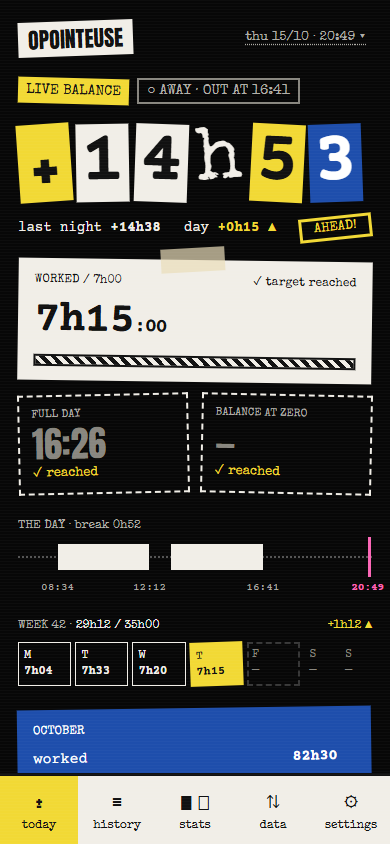
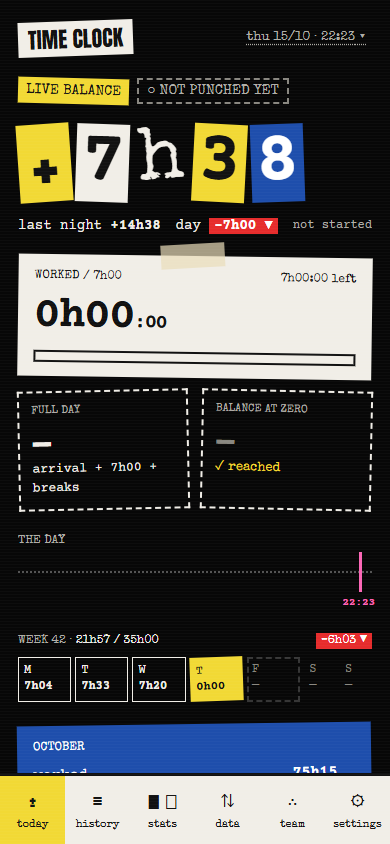
[T27] Display name Pointeuse / Time clock, repository links, new screenshots
UI brand, tab title, manifest, export names per language; <owner> links point to doooools/Time-clock-Pointeuse; 6 screenshots redone.

diff --git a/src/pages/DataPage.tsx b/src/pages/DataPage.tsx
@@ -96,14 +96,14 @@ function ExportSection() {
             <button
               className="btn-primary flex-1 p-3 text-[17px]"
               disabled={!selection.days.length}
-              onClick={() => exportXlsx(selection.days, t("data.workbook_title", { title: selection.title }), `opointeuse-${selection.slug}.xlsx`, locale, settings.timezone)}
+              onClick={() => exportXlsx(selection.days, t("data.workbook_title", { title: selection.title }), `${t("data.file_prefix")}-${selection.slug}.xlsx`, locale, settings.timezone)}
             >
               {t("data.download_xlsx")}
             </button>
             <button
               className="btn-secondary flex-1 p-2.5 text-[17px]"
               disabled={!selection.days.length}
-              onClick={() => exportCsv(selection.days, `opointeuse-${selection.slug}.csv`, locale, settings.timezone)}
+              onClick={() => exportCsv(selection.days, `${t("data.file_prefix")}-${selection.slug}.csv`, locale, settings.timezone)}
             >
               {t("data.download_csv")}
             </button>

diff --git a/src/components/IntegrationsGuide.tsx b/src/components/IntegrationsGuide.tsx
@@ -320,7 +320,7 @@ function HttpTab() {
   const url = `${origin}/api/webhook/punch`;
   const curl = `curl -fsS -X POST -H "X-Webhook-Token: YOUR_TOKEN" ${url}`;
   const powershell = `$headers = @{ "X-Webhook-Token" = "YOUR_TOKEN" }\nInvoke-RestMethod -Method Post -Uri "${url}" -Headers $headers`;
-  const homeAssistant = `# secrets.yaml\nopointeuse_token: YOUR_TOKEN\n\n# configuration.yaml\nrest_command:\n  opointeuse_punch:\n    url: "${url}"\n    method: post\n    headers:\n      X-Webhook-Token: !secret opointeuse_token`;
+  const homeAssistant = `# secrets.yaml\npointeuse_token: YOUR_TOKEN\n\n# configuration.yaml\nrest_command:\n  pointeuse_punch:\n    url: "${url}"\n    method: post\n    headers:\n      X-Webhook-Token: !secret pointeuse_token`;
   const sample = `{ "ok": true, "action": "in", "time": "08:12", "worked_today": "0h00",\n  "remaining_today": "7h00", "departure": "15:12", "balance": "+1h03",\n  "message": "..." }`;
   return (
     <>

diff --git a/index.html b/index.html
@@ -9,7 +9,7 @@
     <link href="https://fonts.googleapis.com/css2?family=Anton&family=Special+Elite&family=Courier+Prime:wght@400;700&display=swap" rel="stylesheet" />
     <link rel="icon" type="image/svg+xml" href="/icon.svg" />
     <link rel="manifest" href="/manifest.webmanifest" />
-    <title>Opointeuse</title>
+    <title>Pointeuse</title>
   </head>
   <body>
     <div id="root"></div>

diff --git a/src/i18n/locales/en/data.ts b/src/i18n/locales/en/data.ts
@@ -11,7 +11,8 @@ export const data: Record<keyof typeof fr, string> = {
   year_aria: "Year",
   title_year: "Year {year}",
   title_all: "Full history",
-  workbook_title: "Opointeuse — {title}",
+  file_prefix: "time-clock",
+  workbook_title: "Time clock — {title}",
   preview: "PREVIEW · {title}",
   stat_days: "days",
   stat_hours: "hours worked",

diff --git a/src/i18n/locales/fr/data.ts b/src/i18n/locales/fr/data.ts
@@ -9,7 +9,8 @@ export const data = {
   year_aria: "Année",
   title_year: "Année {year}",
   title_all: "Historique complet",
-  workbook_title: "Opointeuse — {title}",
+  file_prefix: "pointeuse",
+  workbook_title: "Pointeuse — {title}",
   preview: "APERÇU · {title}",
   stat_days: "jours",
   stat_hours: "heures travaillées",

diff --git a/src/i18n/index.tsx b/src/i18n/index.tsx
@@ -91,6 +91,7 @@ export function I18nProvider({ locale: controlled, children }: { locale?: Locale
 
   useEffect(() => {
     document.documentElement.lang = locale;
+    document.title = translate(locale, "common.app_title");
   }, [locale]);
 
   const setLocale = useCallback<SetLocale>((l, opts) => {

diff --git a/src/i18n/locales/fr/common.ts b/src/i18n/locales/fr/common.ts
@@ -1,6 +1,7 @@
 // Shared strings: navigation, widgets, toasts, language switch (French is the reference dictionary).
 export const common = {
-  brand: "OPOINTEUSE",
+  brand: "POINTEUSE",
+  app_title: "Pointeuse",
 
   // Empty states (new account)
   emptyTitle: "RIEN À POINTER POUR L'INSTANT",

diff --git a/src/i18n/locales/en/common.ts b/src/i18n/locales/en/common.ts
@@ -2,7 +2,8 @@
 import type { common as fr } from "../fr/common";
 
 export const common: Record<keyof typeof fr, string> = {
-  brand: "OPOINTEUSE",
+  brand: "TIME CLOCK",
+  app_title: "Time clock",
 
   // Empty states (new account)
   emptyTitle: "NOTHING TO PUNCH YET",

diff --git a/README.md b/README.md
@@ -1,6 +1,6 @@
 # Opointeuse
 
-[![CI](https://github.com/<owner>/opointeuse/actions/workflows/ci.yml/badge.svg)](https://github.com/<owner>/opointeuse/actions/workflows/ci.yml)
+[![CI](https://github.com/doooools/Time-clock-Pointeuse/actions/workflows/ci.yml/badge.svg)](https://github.com/doooools/Time-clock-Pointeuse/actions/workflows/ci.yml)
 [![License: Apache-2.0](https://img.shields.io/badge/license-Apache--2.0-blue.svg)](LICENSE)
 
 *Lire en français : [README.fr.md](README.fr.md)*
@@ -55,7 +55,7 @@ Generate a secret first: `openssl rand -hex 32` (any random string of 32+ charac
 Requires Node ≥ 22.13.
 
 ```bash
-git clone https://github.com/<owner>/opointeuse.git && cd opointeuse
+git clone https://github.com/doooools/Time-clock-Pointeuse.git && cd Time-clock-Pointeuse
 npm ci
 npm run build:node
 cp .env.example .env            # then set SESSION_SECRET in .env
@@ -68,7 +68,7 @@ More: [docs/deploy-node.md](docs/deploy-node.md) (systemd, Caddy / nginx, backup
 ### Docker
 
 ```bash
-git clone https://github.com/<owner>/opointeuse.git && cd opointeuse
+git clone https://github.com/doooools/Time-clock-Pointeuse.git && cd Time-clock-Pointeuse
 echo "SESSION_SECRET=$(openssl rand -hex 32)" > .env
 docker compose up -d --build    # http://localhost:3000
 docker compose exec opointeuse node dist/server/cli.mjs add alice --generate-password
@@ -79,7 +79,7 @@ More: [docs/deploy-docker.md](docs/deploy-docker.md).
 ### Cloudflare Workers + D1
 
 ```bash
-git clone https://github.com/<owner>/opointeuse.git && cd opointeuse
+git clone https://github.com/doooools/Time-clock-Pointeuse.git && cd Time-clock-Pointeuse
 npm ci
 npx wrangler login
 npx wrangler d1 create opointeuse        # paste the database_id into wrangler.jsonc
@@ -132,7 +132,7 @@ read by other agents through `AGENTS.md`) and a guided set-up skill (`.claude/sk
 "set up Opointeuse" and it asks the few questions that matter (target, team, time zone, holidays, hours), then runs
 the steps, asking before anything irreversible. Examples:
 
-- "Here is the repo: `https://github.com/<owner>/opointeuse`. Deploy it on my Cloudflare account, create the
+- "Here is the repo: `https://github.com/doooools/Time-clock-Pointeuse`. Deploy it on my Cloudflare account, create the
   first account for me, time zone Europe/Brussels, Belgian holidays."
 - "Install it with Docker on my home server behind Caddy, for a team of 6 people, French interface."
 - "Add a holiday region for the canton of Geneva."

diff --git a/README.fr.md b/README.fr.md
@@ -1,6 +1,6 @@
 # Opointeuse
 
-[![CI](https://github.com/<owner>/opointeuse/actions/workflows/ci.yml/badge.svg)](https://github.com/<owner>/opointeuse/actions/workflows/ci.yml)
+[![CI](https://github.com/doooools/Time-clock-Pointeuse/actions/workflows/ci.yml/badge.svg)](https://github.com/doooools/Time-clock-Pointeuse/actions/workflows/ci.yml)
 [![Licence : Apache-2.0](https://img.shields.io/badge/licence-Apache--2.0-blue.svg)](LICENSE)
 
 *Read in English: [README.md](README.md)*
@@ -58,7 +58,7 @@ ou plus convient).
 Nécessite Node ≥ 22.13.
 
 ```bash
-git clone https://github.com/<owner>/opointeuse.git && cd opointeuse
+git clone https://github.com/doooools/Time-clock-Pointeuse.git && cd Time-clock-Pointeuse
 npm ci
 npm run build:node
 cp .env.example .env            # puis renseignez SESSION_SECRET dans .env
@@ -71,7 +71,7 @@ Suite : [docs/deploy-node.md](docs/deploy-node.md) (systemd, Caddy / nginx, sauv
 ### Docker
 
 ```bash
-git clone https://github.com/<owner>/opointeuse.git && cd opointeuse
+git clone https://github.com/doooools/Time-clock-Pointeuse.git && cd Time-clock-Pointeuse
 echo "SESSION_SECRET=$(openssl rand -hex 32)" > .env
 docker compose up -d --build    # http://localhost:3000
 docker compose exec opointeuse node dist/server/cli.mjs add alice --generate-password
@@ -82,7 +82,7 @@ Suite : [docs/deploy-docker.md](docs/deploy-docker.md).
 ### Cloudflare Workers + D1
 
 ```bash
-git clone https://github.com/<owner>/opointeuse.git && cd opointeuse
+git clone https://github.com/doooools/Time-clock-Pointeuse.git && cd Time-clock-Pointeuse
 npm ci
 npx wrangler login
 npx wrangler d1 create opointeuse        # collez le database_id dans wrangler.jsonc
@@ -139,7 +139,7 @@ les autres agents via `AGENTS.md`) et un skill de mise en place guidée (`.claud
 Code d'« installer Opointeuse », il pose les quelques questions utiles (cible, équipe, fuseau, fériés, horaires),
 puis exécute les étapes en demandant confirmation avant toute action irréversible. Exemples de demandes :
 
-- « Voici le dépôt : `https://github.com/<owner>/opointeuse`. Déploie-le sur mon compte Cloudflare, crée-moi le
+- « Voici le dépôt : `https://github.com/doooools/Time-clock-Pointeuse`. Déploie-le sur mon compte Cloudflare, crée-moi le
   premier compte, fuseau Europe/Paris, jours fériés français. »
 - « Installe-le avec Docker sur mon serveur maison derrière Caddy, pour une équipe de 6 personnes, interface en
   français. »

diff --git a/docs/integrations/http.md b/docs/integrations/http.md
@@ -61,18 +61,18 @@ Keep the script readable only by you (`chmod 600`): it contains the token.
 Store the token in `secrets.yaml`:
 
 ```yaml
-opointeuse_token: YOUR_TOKEN
+pointeuse_token: YOUR_TOKEN
 ```
 
 `configuration.yaml`:
 
 ```yaml
 rest_command:
-  opointeuse_punch:
+  pointeuse_punch:
     url: "https://pointeuse.example.com/api/webhook/punch"
     method: post
     headers:
-      X-Webhook-Token: !secret opointeuse_token
+      X-Webhook-Token: !secret pointeuse_token
     timeout: 15
 ```
 
@@ -82,7 +82,7 @@ Call it from an automation, a script or a dashboard button, and read the reply w
 script:
   punch:
     sequence:
-      - action: rest_command.opointeuse_punch
+      - action: rest_command.pointeuse_punch
         response_variable: punch
       - action: notify.notify
         data:

diff --git a/CODE_OF_CONDUCT.md b/CODE_OF_CONDUCT.md
@@ -37,7 +37,7 @@ This Code of Conduct applies within all community spaces, and also applies when 
 
 ## Enforcement
 
-Instances of abusive, harassing, or otherwise unacceptable behavior may be reported to the community leaders responsible for enforcement at <contact email>. All complaints will be reviewed and investigated promptly and fairly.
+Instances of abusive, harassing, or otherwise unacceptable behavior may be reported to the community leaders responsible for enforcement at the maintainer, @doooools on GitHub (private report through the repository's Security tab). All complaints will be reviewed and investigated promptly and fairly.
 
 All community leaders are obligated to respect the privacy and security of the reporter of any incident.
 
